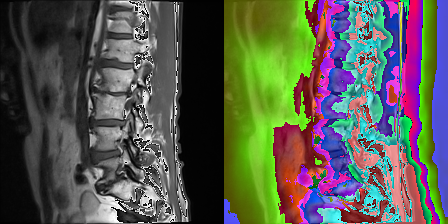
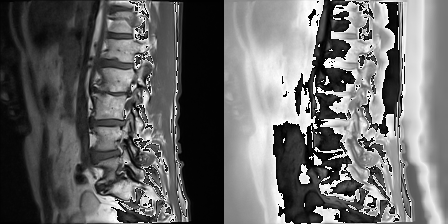
kind of fixed the interpreter visuals?

diff --git a/src/arch/interface.py b/src/arch/interface.py
@@ -371,16 +371,18 @@ def cnn_interpreter(model: nn.Module, train_loader: Any, target_layer: Any=None,
     target_class = output.argmax(dim=1).item()
     mask, heatmap = gradcam(img, class_idx=target_class)
     image = visualize_cam(mask, img.squeeze(0).squeeze(0))[1]
+    print(heatmap)
 
     # generate & save image
+    original = img.squeeze(0).permute(1, 2, 0).cpu().numpy()
+    norm_heatmap = image.permute(1, 2, 0).cpu().numpy()
     overlay_np = np.hstack((
-        cv2.cvtColor(img.view(1, 224, 224).permute(1, 2, 0).cpu().numpy(), cv2.COLOR_GRAY2RGB),
-        image.permute(1, 2, 0).cpu().numpy()
+        original.squeeze(2),
+        cv2.cvtColor(norm_heatmap, cv2.COLOR_RGB2GRAY)
     ))
     overlay_np = (overlay_np * 255).astype("uint8")
-    warnings.resetwarnings()
-    
     save_image(overlay_np, f"{model.__class__.__name__}_interpretation")
+    warnings.resetwarnings()
     
 
 # --- Interface --- #

diff --git a/src/pipeline/pipeline.py b/src/pipeline/pipeline.py
@@ -139,14 +139,14 @@ def interpret_loaded_model(pipe: Pipeline, model_class):
     """Wrapper for interpreting a model with saved weights.
     """
     
+    # load data
     pipe.init_dataloader()
+    
+    # setup info for loading the model
     model_arch = f"final_{model_class.__class__.__name__}"
     device = "cpu" if model_arch == "CKAN" else DEVICE
     
-    print(device)
-    #pick the correct file for hyperparams
-    # C:\Users\atrip\Classes\ECS-174-Project\model-weights\checkpt_CNN
-    
+    # load & interpret
     loaded_model = loader(pipe.model_descr, model_class)
     loaded_model = loaded_model.to(device)
     loaded_model.interpret(pipe.test_loader, device=device)
